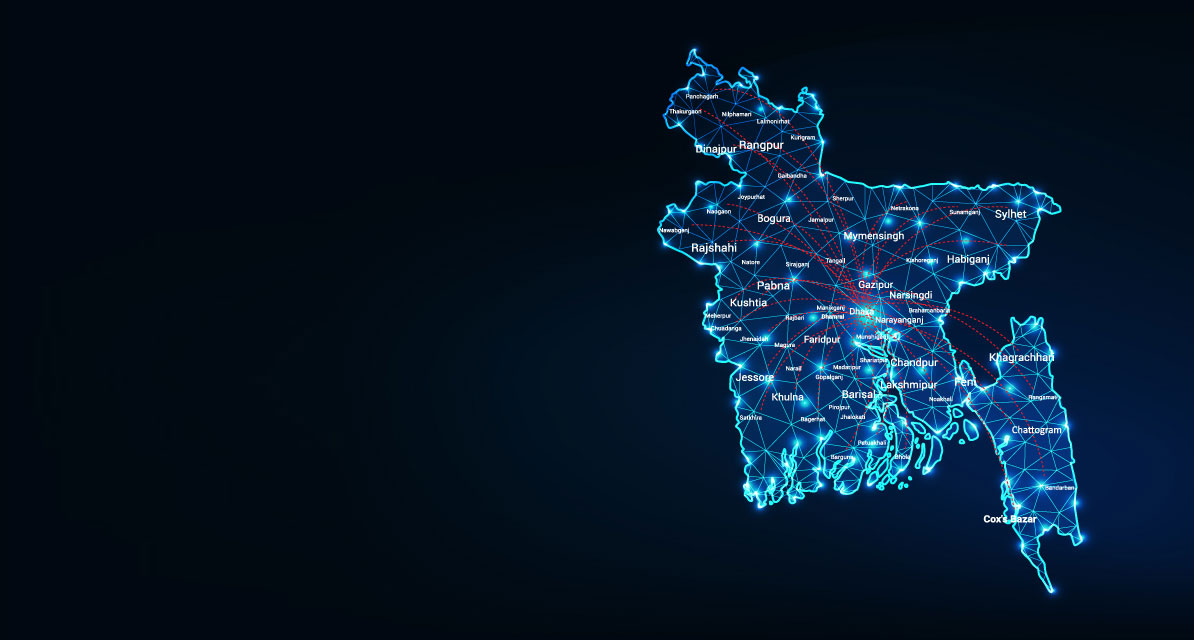
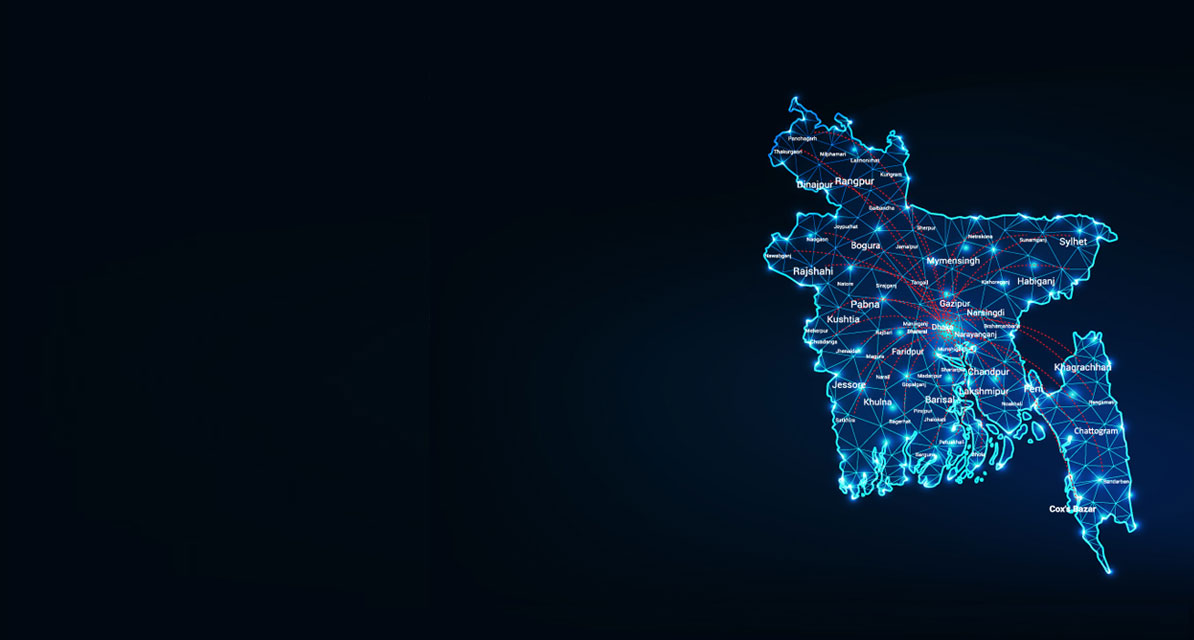
modify

Changed region(s): [[0.5268, 0.0625, 0.9606, 0.9375]]

diff --git a/pages/components/TouchPoint.js b/pages/components/TouchPoint.js
@@ -133,9 +133,11 @@ export default function TouchPoint() {
 
   const background = {
     backgroundImage: `url(${bg.src})`,
-    backgroundSize: 'cover',
+    backgroundSize: '100% 123%',
     backgroundPosition:'center',
+    backgroundRepeat:"no-repeat",
     boxShadow: 'inset 0 0 0 2000px rgba(0, 0, 0, 0.7)'
+    
   };
   return (
     <>
